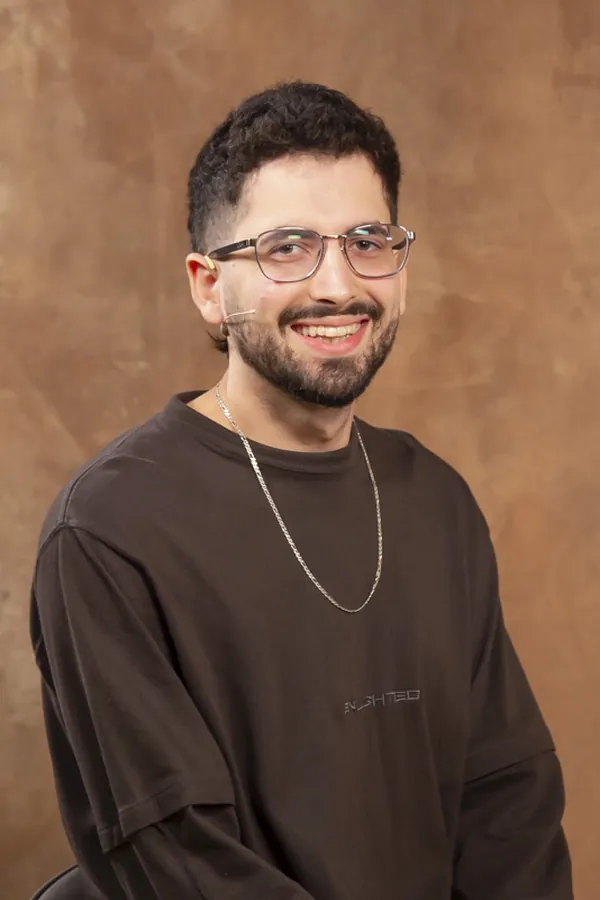
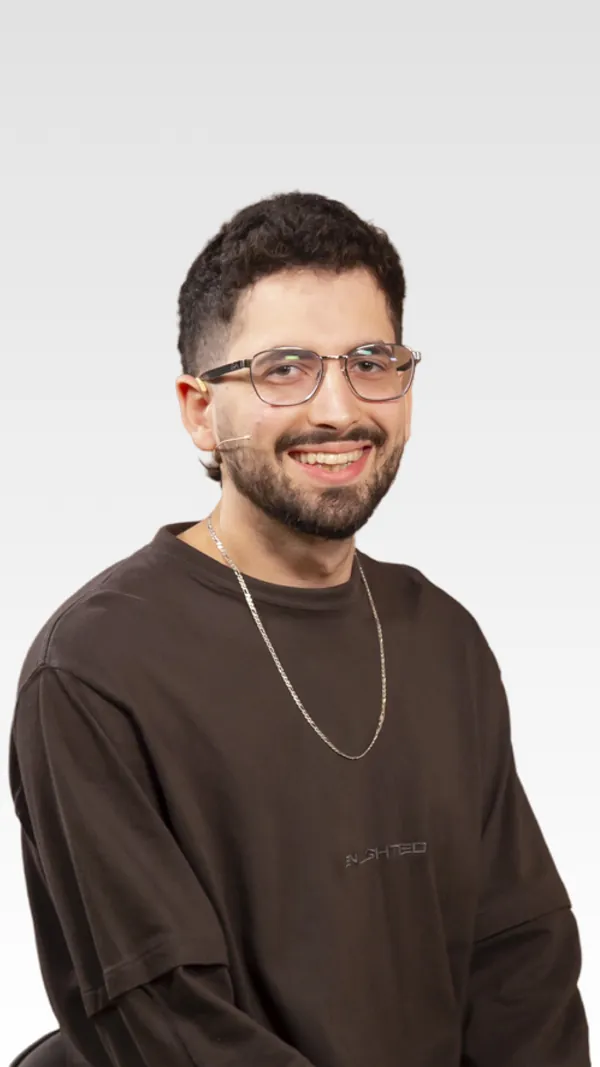
Matías Bottero: foto nueva de estudio

diff --git a/index.html b/index.html
@@ -1067,7 +1067,7 @@ h1.split .w > span { display: inline-block; transform: translateY(115%); }
     </article>
     <article class="bcard" style="--i:1">
       <div class="bcard-tilt">
-        <img class="bcard-photo" src="assets/photos/matias_bottero.webp" alt="Matías Bottero" loading="lazy" decoding="async" width="307" height="527">
+        <img class="bcard-photo" src="assets/photos/matias_bottero.webp?v=2" alt="Matías Bottero" loading="lazy" decoding="async" width="307" height="527">
         <div class="bcard-top-scrim" aria-hidden="true"></div>
         <div class="bcard-top">
           <h3 class="bcard-name">Matías Bottero</h3>
@@ -2638,7 +2638,7 @@ h1.split .w > span { display: inline-block; transform: translateY(115%); }
     </article>
     <article class="bcard" style="--i:1">
       <div class="bcard-tilt">
-        <img class="bcard-photo" src="assets/photos/matias_bottero.webp" alt="Matías Bottero" loading="lazy" decoding="async" width="307" height="527">
+        <img class="bcard-photo" src="assets/photos/matias_bottero.webp?v=2" alt="Matías Bottero" loading="lazy" decoding="async" width="307" height="527">
         <div class="bcard-top-scrim" aria-hidden="true"></div>
         <div class="bcard-top">
           <h3 class="bcard-name">Matías Bottero</h3>
